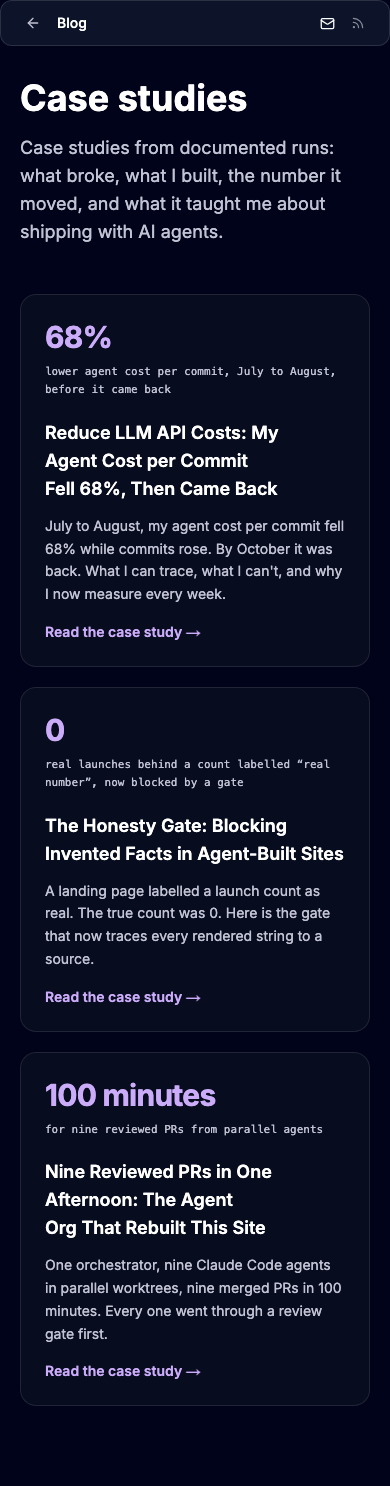
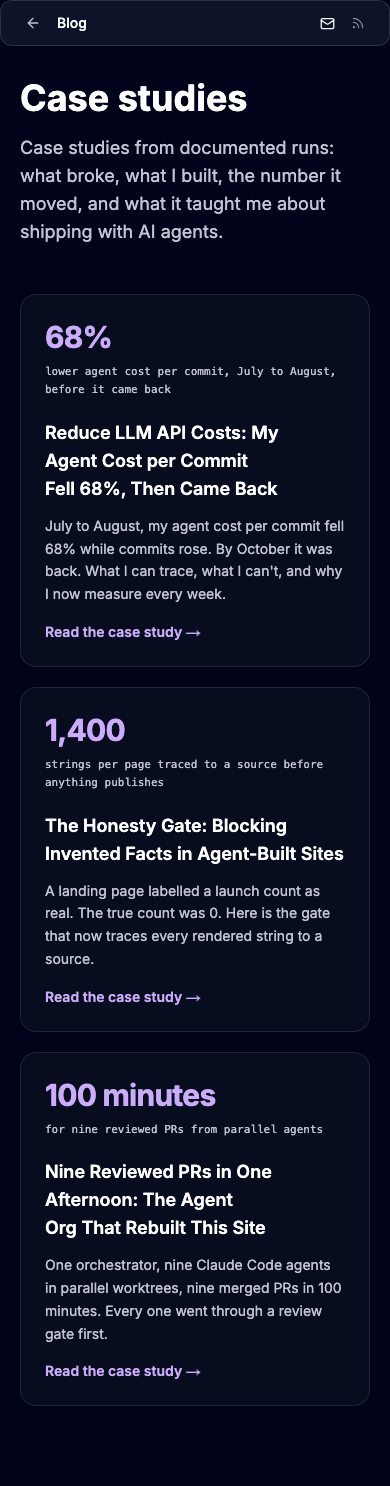
🐛 fix(#47): apply /work index code-review findings
- Honesty-gate headline is "1,400 strings per page traced to a
  source" (from its MDX), not a bare "0".
- The figure test matches the MDX body only, as a whole number, so a
  frontmatter date can't satisfy it.
- /work 404s with no published studies and leaves the sitemap then.
- /work sets twitter card, og:url and siteName; headings readable in
  light mode.
- "Work" nav items on /services, /teardown and case-study pages, and
  the case-study eyebrow, now link to /work. The 30-PR sprint link
  stays on /#work (it points at the homepage demo).

diff --git a/app/work/page.tsx b/app/work/page.tsx
@@ -1,5 +1,6 @@
 import type { Metadata } from "next";
 import Link from "next/link";
+import { notFound } from "next/navigation";
 import BlogNav from "@/components/blog/BlogNav";
 import { getPosts, WORK_DIR } from "@/lib/blog";
 import { caseStudyResults } from "@/data/work";
@@ -14,6 +15,13 @@ export const metadata: Metadata = {
     title: "Case studies | Adrian Rusan",
     description: DESCRIPTION,
     type: "website",
+    url: "https://www.adrian-rusan.com/work",
+    siteName: "Adrian Rusan",
+  },
+  twitter: {
+    card: "summary_large_image",
+    title: "Case studies | Adrian Rusan",
+    description: DESCRIPTION,
   },
   alternates: { canonical: "/work" },
 };
@@ -22,13 +30,15 @@ export const metadata: Metadata = {
 // of the content section. Lists every published study from the work loader.
 export default async function WorkIndexPage() {
   const studies = await getPosts(WORK_DIR);
+  // No empty index: R10 allows no "coming soon" pages.
+  if (studies.length === 0) notFound();
 
   return (
     <div className="min-h-screen dark:bg-black-100 bg-white">
       <BlogNav />
       <main className="max-w-5xl mx-auto px-5 sm:px-10 pb-20">
         <div className="mb-12">
-          <h1 className="text-4xl sm:text-5xl font-bold text-white mb-4">
+          <h1 className="text-4xl sm:text-5xl font-bold text-black-100 dark:text-white mb-4">
             Case studies
           </h1>
           <p className="text-white-200 text-lg max-w-xl">{DESCRIPTION}</p>
@@ -54,7 +64,7 @@ export default async function WorkIndexPage() {
                     </div>
                   )}
                   <div className="flex flex-col flex-1">
-                    <h2 className="text-lg md:text-xl font-semibold text-balance text-white">
+                    <h2 className="text-lg md:text-xl font-semibold text-balance text-black-100 dark:text-white">
                       {study.frontmatter.title}
                     </h2>
                     <p className="text-sm text-white-200 mt-3 leading-relaxed flex-1">

diff --git a/app/work/[slug]/page.tsx b/app/work/[slug]/page.tsx
@@ -9,7 +9,7 @@ import { FloatingNav } from "@/components/ui/FloatingNav";
 const workNavItems = [
   { name: "Home", link: "/" },
   { name: "Services", link: "/services" },
-  { name: "Work", link: "/#work" },
+  { name: "Work", link: "/work" },
   { name: "Blog", link: "/blog" },
 ];
 
@@ -95,7 +95,7 @@ export default async function CaseStudyPage({ params }: CaseStudyPageProps) {
         <article>
           <header className="mb-10 pb-8 border-b border-black-300">
             <Link
-              href="/#work"
+              href="/work"
               className="font-mono text-[11px] uppercase tracking-[0.12em] text-blue-100 hover:text-purple transition-colors"
             >
               Case study

diff --git a/app/sitemap.ts b/app/sitemap.ts
@@ -76,12 +76,17 @@ export default async function sitemap(): Promise<MetadataRoute.Sitemap> {
       changeFrequency: "weekly",
       priority: 0.8,
     },
-    {
-      url: `${baseUrl}/work`,
-      lastModified,
-      changeFrequency: "weekly",
-      priority: 0.8,
-    },
+    // The index 404s with no studies, so it is listed only when it has some.
+    ...(studies.length
+      ? [
+          {
+            url: `${baseUrl}/work`,
+            lastModified,
+            changeFrequency: "weekly" as const,
+            priority: 0.8,
+          },
+        ]
+      : []),
     ...workEntries,
     ...blogEntries,
   ];

diff --git a/__tests__/work-index.test.ts b/__tests__/work-index.test.ts
@@ -19,7 +19,10 @@ describe("/work index", () => {
     (slug, { figure }) => {
       const file = path.join(WORK_DIR, `${slug}.mdx`);
       if (!fs.existsSync(file)) return; // study not merged on this branch yet
-      expect(fs.readFileSync(file, "utf8")).toContain(figure);
+      // Body only (frontmatter dates hold digits), and not part of a longer number.
+      const body = fs.readFileSync(file, "utf8").replace(/^---[\s\S]*?---/, "");
+      const escaped = figure.replace(/[.*+?^${}()|[\]\\]/g, "\\$&");
+      expect(body).toMatch(new RegExp(`(^|[^\\d,])${escaped}(?![\\d,]\\d)`));
     },
   );
 });

diff --git a/data/work.ts b/data/work.ts
@@ -6,9 +6,8 @@ export const caseStudyResults: Record<
   { figure: string; label: string }
 > = {
   "honesty-gate": {
-    figure: "0",
-    label:
-      "real launches behind a count labelled “real number”, now blocked by a gate",
+    figure: "1,400",
+    label: "strings per page traced to a source before anything publishes",
   },
   "agent-cost-per-commit": {
     figure: "68%",

diff --git a/app/services/page.tsx b/app/services/page.tsx
@@ -58,7 +58,7 @@ const servicesNavItems = [
   { name: "Home", link: "/" },
   { name: "Pricing", link: "#ladder" },
   { name: "How it works", link: "#process" },
-  { name: "Work", link: "/#work" },
+  { name: "Work", link: "/work" },
   { name: "Blog", link: "/blog" },
   { name: "Contact", link: "/#contact" },
 ];

diff --git a/app/teardown/page.tsx b/app/teardown/page.tsx
@@ -35,7 +35,7 @@ export const metadata: Metadata = {
 const teardownNavItems = [
   { name: "Home", link: "/" },
   { name: "Services", link: "/services" },
-  { name: "Work", link: "/#work" },
+  { name: "Work", link: "/work" },
   { name: "Blog", link: "/blog" },
 ];
 
